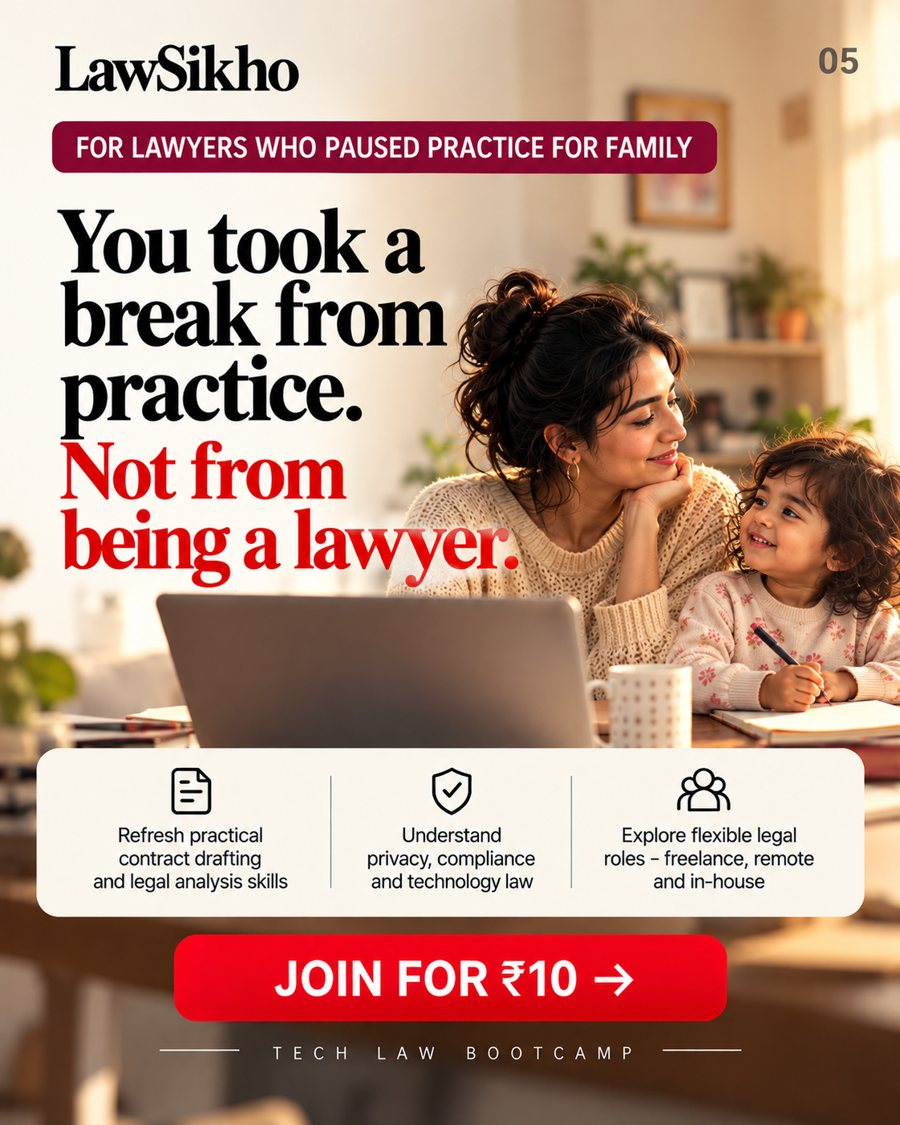
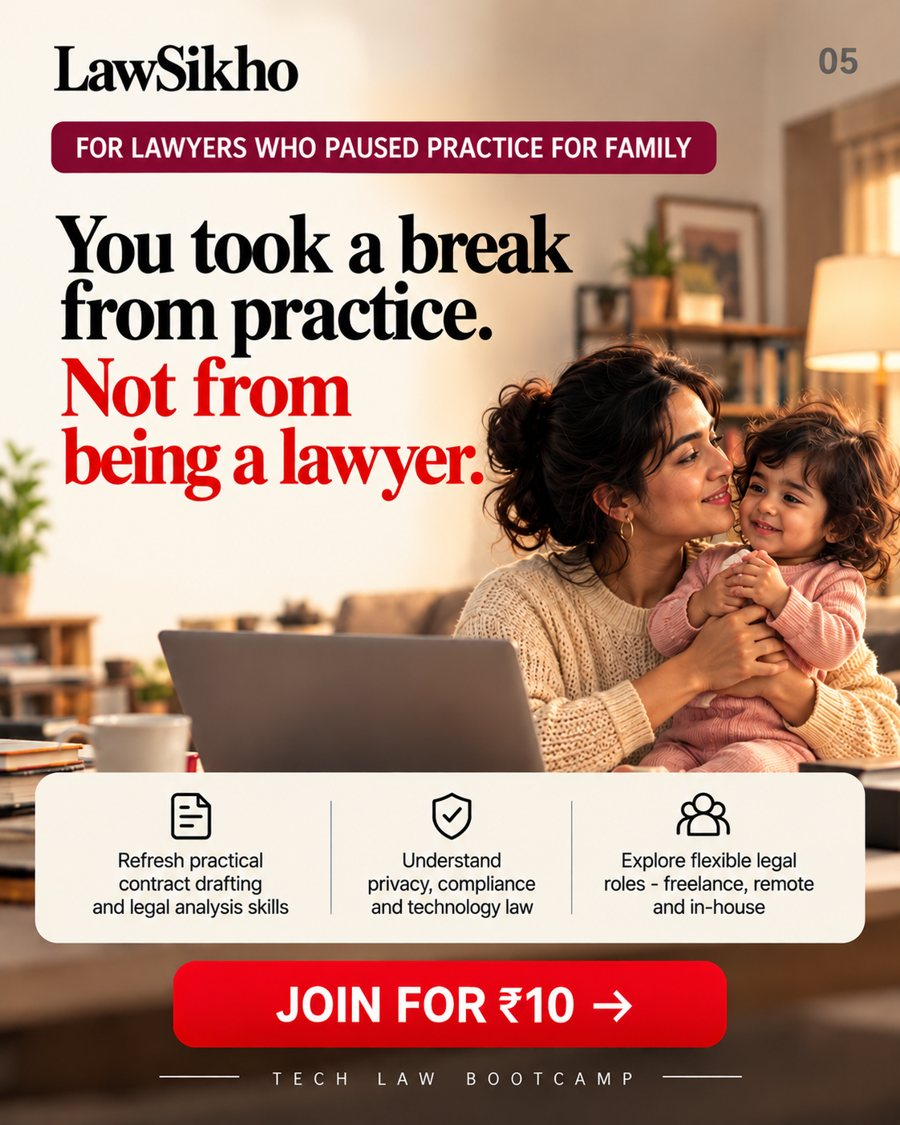
QA Meta kit C1: align page 05 picture with ad 05, add QA report and script
Claude-Session: https://claude.ai/code/session_01AXRwB9i1XSdH9cH7rCAnNb

diff --git a/projects/marketing-hub/meta-kit/qa_meta.py b/projects/marketing-hub/meta-kit/qa_meta.py
@@ -1,0 +1,66 @@
+import csv,glob,os,re,hashlib
+import numpy as np
+from PIL import Image
+K='.';fails=[];notes=[]
+def F(m):fails.append(m)
+Z='/tmp/claude-0/-home-user-Marketing0510/54fb68af-29ff-5f82-8df2-53b8e402c4c0/scratchpad/imgs/Images for tech law /'
+def zf(k): return [f for f in glob.glob(Z+'*.png') if os.path.basename(f).startswith(k)][0]
+SRC={'01':zf('Legal Minds '),'02':zf('Fintech Law'),'03':'/tmp/claude-0/-home-user-Marketing0510/54fb68af-29ff-5f82-8df2-53b8e402c4c0/images/4.webp','04':zf('From Busines'),'05':zf('Return to La'),'06':zf('New City, Ne'),'07':zf('Global Legal'),'08':zf('Tech Law Boo'),'09':zf('Flexible Leg'),'10':zf('Reignite You')}
+print("== 1. Image files, sizes, fidelity (creative words untouched)")
+for n,f in SRC.items():
+    src=Image.open(f).convert('RGB')
+    for d,(W,H) in (('9x16',(1080,1920)),('4x5',(1080,1350))):
+        p=f'{d}/TL_C1_{n}_{d}.jpg'
+        if not os.path.exists(p):F('missing '+p);continue
+        im=Image.open(p)
+        if im.size!=(W,H):F(f'{p} size {im.size}')
+        im=im.convert('RGB');r=src.width/src.height
+        if abs(r-W/H)<0.02: fg=im;ref=src.resize((W,H),Image.LANCZOS);mode='full-bleed, no crop'
+        else:
+            s=min(W/src.width,H/src.height);w,h=round(src.width*s),round(src.height*s);x,y=(W-w)//2,(H-h)//2
+            fg=im.crop((x,y,x+w,y+h));ref=src.resize((w,h),Image.LANCZOS);mode=f'whole ad kept, {w}x{h} on wash'
+        diff=np.abs(np.asarray(fg,dtype=float)-np.asarray(ref,dtype=float)).mean()
+        flag='OK' if diff<4 else 'CHECK'
+        if diff>=4:F(f'{p} differs from supplied ad: mean diff {diff:.1f}')
+        print(f'  {p}: {im.size} {mode}; mean pixel diff vs supplied ad {diff:.2f} {flag}')
+print("== 2. Upload sheet")
+rows=list(csv.DictReader(open('C1_meta_upload_sheet.csv',encoding='utf-8-sig')))
+if len(rows)!=10:F('rows != 10')
+for r in rows:
+    n=r['GrowthX funnel slug'].split('-')[1]
+    for k in ('Image 9:16 (Stories, Reels)','Image 4:5 (Feed)'):
+        if not os.path.exists(r[k]):F(f"{r['Ad name']} missing {r[k]}")
+        if f'_{n}_' not in r[k]:F(f"{r['Ad name']} {k} wrong number {r[k]}")
+    if not os.path.exists(r['Landing page file']):F('missing page '+r['Landing page file'])
+    pt=r['Primary text']
+    if len(pt)>548:F(f"{r['Ad name']} primary text {len(pt)}>548")
+    if re.search('[–—]',pt+r['Headline']+r['Description']):F(f"{r['Ad name']} dash")
+    if '→' in pt+r['Headline']:F('arrow')
+    for must in ('Rs 10 incl. GST','Refundable','Live only','24 and Sun 25 Oct'):
+        if must.lower() not in pt.lower():F(f"{r['Ad name']} primary text missing '{must}'")
+    u=r['Website URL']
+    if f'/f/tlc1-{n}?' not in u or 'utm_source=meta' not in u or f'utm_content=tlc1-{n}_' not in u:F(f"{r['Ad name']} URL {u}")
+    if len(r['Headline'])>40:F(f"{r['Ad name']} headline {len(r['Headline'])}>40")
+    if r['Call to action']!='Sign up':F('CTA')
+    print(f"  {r['Ad name']}: text {len(pt)} chars, headline {len(r['Headline'])}, url ok")
+print("== 3. Landing pages")
+for n in SRC:
+    p=f'landing_pages_c1/lp_tlc1-{n}.html';s=open(p,encoding='utf-8').read()
+    imgp=re.search(r'<img src="([^"]+)"',s).group(1)
+    if not os.path.exists('landing_pages_c1/'+imgp):F(p+' image missing')
+    hrefs=set(re.findall(r'href="(https://growthx[^"]+)"',s))
+    if hrefs!={f'https://growthx.lawsikho.com/f/tlc1-{n}'}:F(f'{p} hrefs {hrefs}')
+    if re.search('[–—]',s):F(p+' dash')
+    if '→' in re.sub(r'<script.*?</script>','',s,flags=re.S).replace('&rarr;',''):F(p+' arrow')
+    row=[r for r in rows if r['GrowthX funnel slug']==f'tlc1-{n}'][0]
+    hook=row['Primary text'].split('\n\n')[0].replace('...','').replace('…','')
+    words=re.sub(r'<[^>]+>',' ',s);words=re.sub(r'\s+',' ',words).replace('&#x27;',"'")
+    first=hook.split('.')[0][:25]
+    if first.lower() not in words.lower():F(f'{p} fold does not repeat hook "{first}"')
+    for bad in ('guarantee','job offer','placement','salary','Zoom'):
+        if bad.lower() in words.lower() and bad!='placement':F(f'{p} has "{bad}"')
+    pay=len(re.findall('class="btn"',s))
+    print(f'  {p}: img {imgp}, {pay} pay buttons, hook repeated, links ok')
+print()
+print('FAILS:',len(fails))
+for f in fails:print(' -',f)

diff --git a/projects/marketing-hub/meta-kit/c1/QA_REPORT_C1.md b/projects/marketing-hub/meta-kit/c1/QA_REPORT_C1.md
@@ -1,0 +1,20 @@
+# QA report, Meta kit C1 (16 Oct 2026)
+
+Rule followed: no words on any creative image were changed. The 10 supplied ads were only resized. Nothing was redrawn, retyped or cropped.
+
+| Check | Result |
+|---|---|
+| 20 ad images exist, all 1080x1920 (9x16) or 1080x1350 (4x5) | Pass |
+| Supplied ad is intact inside each file (pixel compare against the supplied PNG, mean difference 1.3 to 2.0 out of 255, which is resizing and JPEG only) | Pass, all 20 |
+| Native shape (no padding): 01, 02, 03 in 9x16; 04 to 09 in 4x5. Other shape = whole ad on a colour wash from its own edges, no crop | As designed |
+| Upload sheet: 10 rows, every image path and page path exists, image number matches the ad | Pass |
+| Primary text 509 to 548 characters (limit 548); price, refund, live only and dates present in every ad; no dashes; no arrows | Pass |
+| URLs: slug, utm_source=meta and utm_content match the ad number | Pass |
+| Call to action "Sign up" on all 10 | Pass |
+| Headline length (Meta shows about 40 before cutting) | **C1_08_BPO is 43 characters**; left unchanged. Meta may cut "₹10". |
+| Landing pages: 10 files, hero picture loads, pay link goes to the right funnel, no dashes, no arrows, first fold repeats the ad's hook | Pass (08's hook uses "Hello..." with three dots in both places) |
+| Layout at 360, 390 and 768 px wide, picture loads, no sideways scroll, no script errors, sticky pay button present | Pass, 30 of 30 |
+| Hero picture on each page matches its ad | Pass for all 10 after a fix: page 05 had the other 05 picture; now the same as the ad. The other 05 picture is kept as `img/alt/TL_C1_05_desk_laptop.jpg` |
+
+Not tested here: a real Rs 10 purchase, the GrowthX pixel, or Ads Manager preview (Stories safe zone for 01 to 03 still needs a look).
+Script: `../qa_meta.py` (run from this folder).
